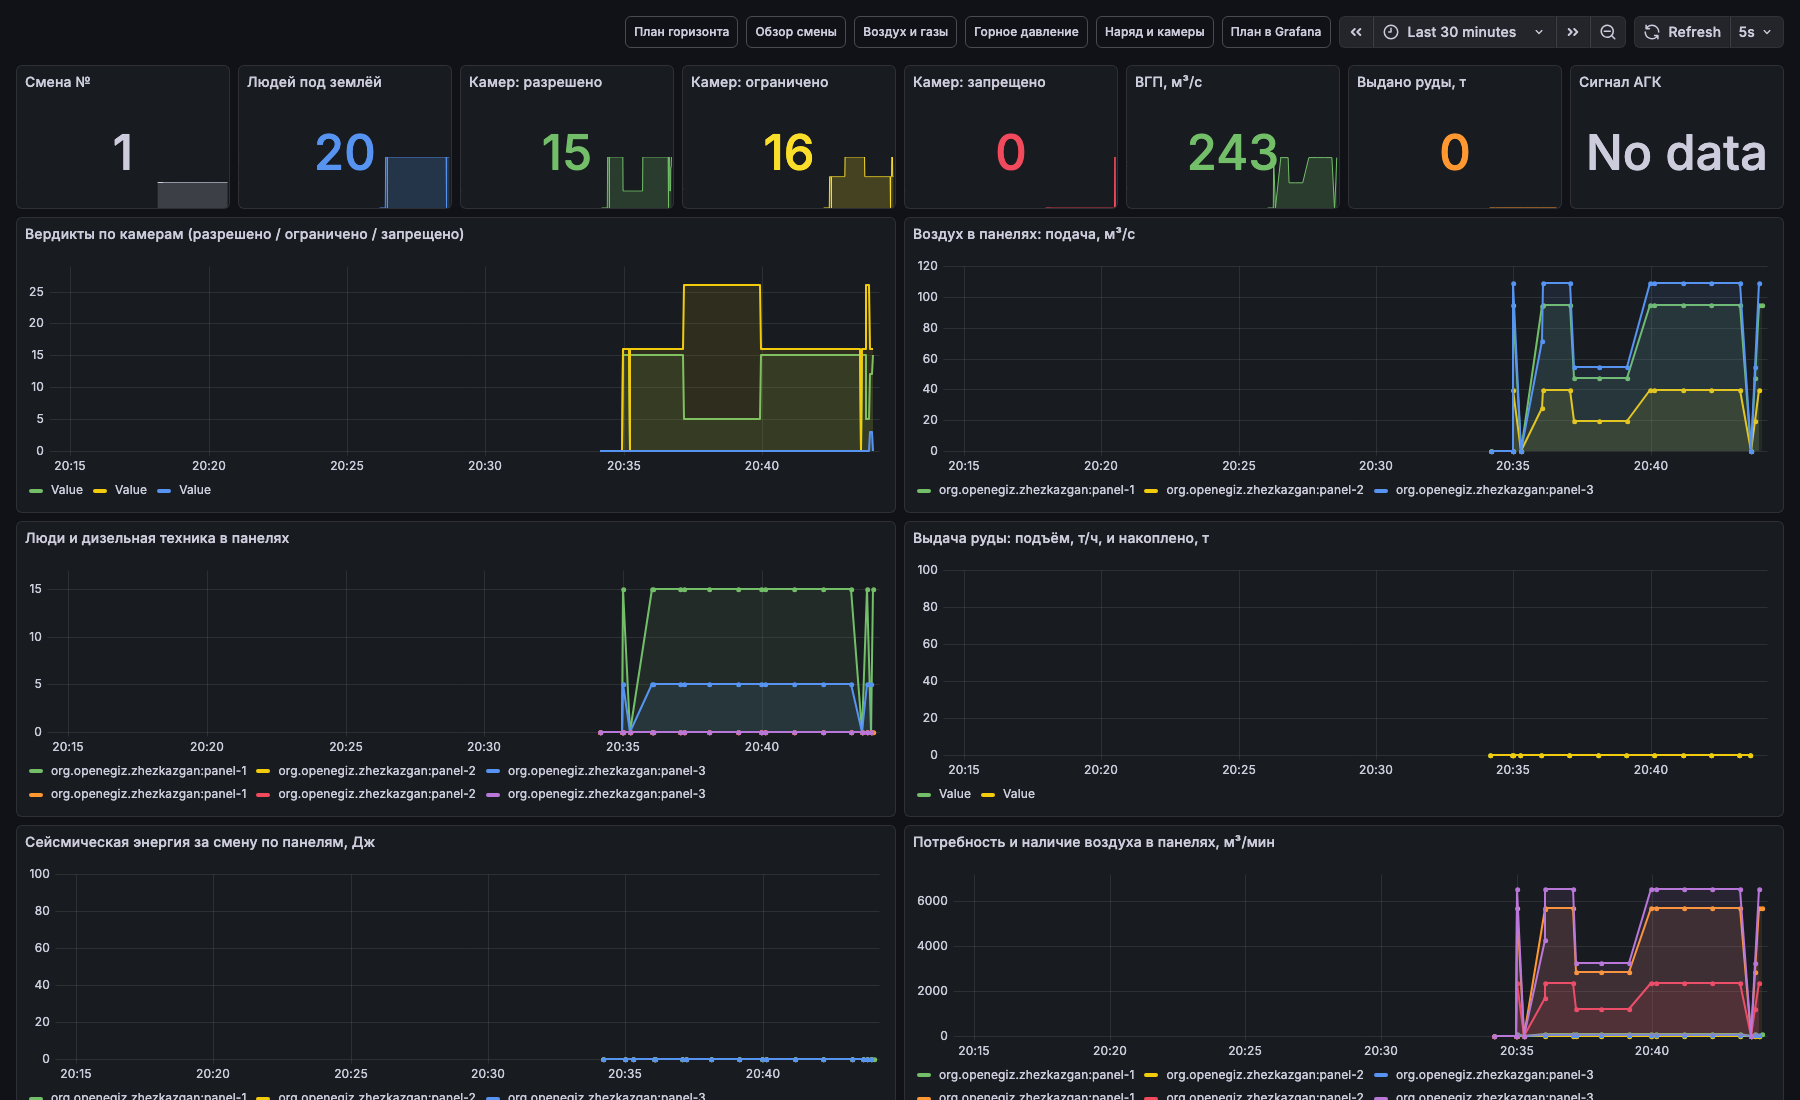
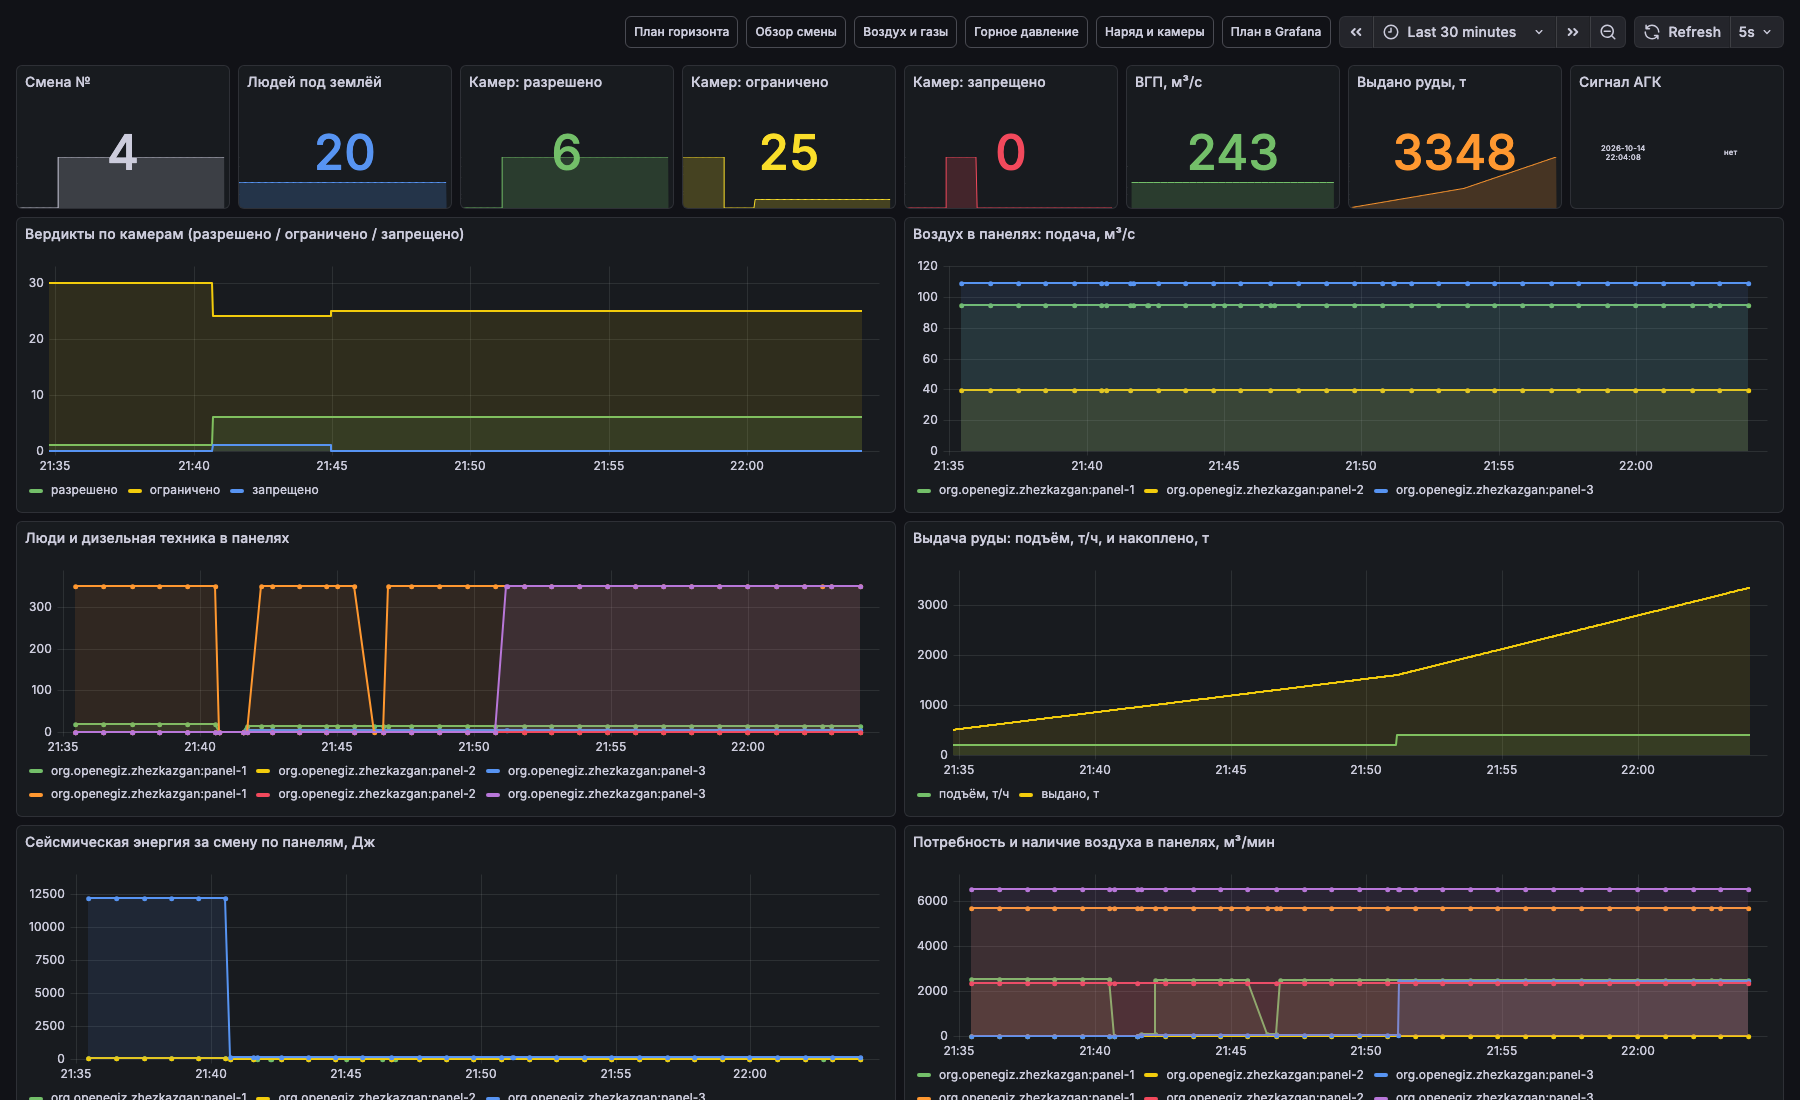
Dashboards: text stats show string values; readable series names

diff --git a/team/grafana/build_dashboards.py b/team/grafana/build_dashboards.py
@@ -27,10 +27,12 @@ def nid():
     return _id[0]
 
 
-def flux_one(thing, feature):
+def flux_one(thing, feature, label=None):
+    """Одна величина одного двойника; label подписывает линию на графике с несколькими запросами."""
+    name = label or f"{thing}.{feature}"
     return (f'from(bucket: "default")\n  |> range(start: v.timeRangeStart, stop: v.timeRangeStop)\n'
             f'  |> filter(fn: (r) => r.thingId == "{NS}:{thing}" and r._field == "value_{feature}_properties_value")\n'
-            f'  |> keep(columns: ["_time", "_value"])')
+            f'  |> map(fn: (r) => ({{_time: r._time, _value: r._value, _field: "{name}"}}))\n  |> group(columns: ["_field"])')
 
 
 def flux_many(regex, feature, label="twin"):
@@ -61,7 +63,7 @@ def target(q, ref="A"):
 def stat(title, q, unit="", x=0, y=0, w=4, h=4, decimals=None, color="blue", thresholds=None, text=False):
     p = {"id": nid(), "type": "stat", "title": title, "datasource": DS, "gridPos": {"x": x, "y": y, "w": w, "h": h},
          "targets": [target(q)],
-         "options": {"reduceOptions": {"calcs": ["lastNotNull"], "fields": "", "values": False}, "colorMode": "none" if text else "value",
+         "options": {"reduceOptions": {"calcs": ["lastNotNull"], "fields": "/.*/" if text else "", "values": False}, "colorMode": "none" if text else "value",
                      "graphMode": "none" if text else "area", "textMode": "value", "justifyMode": "auto"},
          "fieldConfig": {"defaults": {"unit": unit, "color": {"mode": "fixed", "fixedColor": color}}, "overrides": []}}
     if decimals is not None:
@@ -127,10 +129,10 @@ def overview():
              [{"color": "red", "value": None}, {"color": "yellow", "value": 150}, {"color": "green", "value": 220}]),
         stat("Выдано руды, т", flux_one("hoist", "tonnes_total"), "", 18, 0, 3, 4, 0, "orange"),
         stat("Сигнал АГК", flux_one("east-mine", "alarm"), "", 21, 0, 3, 4, None, "red", text=True),
-        ts("Вердикты по камерам (разрешено / ограничено / запрещено)", [flux_one("east-mine", "chambers_allowed"), flux_one("east-mine", "chambers_restricted"), flux_one("east-mine", "chambers_forbidden")], "", 0, 4, 12, 8, min_=0),
+        ts("Вердикты по камерам (разрешено / ограничено / запрещено)", [flux_one("east-mine", "chambers_allowed", "разрешено"), flux_one("east-mine", "chambers_restricted", "ограничено"), flux_one("east-mine", "chambers_forbidden", "запрещено")], "", 0, 4, 12, 8, min_=0),
         ts("Воздух в панелях: подача, м³/с", [flux_many("panel-", "q_in")], "", 12, 4, 12, 8, min_=0),
         ts("Люди и дизельная техника в панелях", [flux_many("panel-", "people"), flux_many("panel-", "diesel_kw")], "", 0, 12, 12, 8, min_=0),
-        ts("Выдача руды: подъём, т/ч, и накоплено, т", [flux_one("hoist", "throughput"), flux_one("hoist", "tonnes_total")], "", 12, 12, 12, 8, min_=0),
+        ts("Выдача руды: подъём, т/ч, и накоплено, т", [flux_one("hoist", "throughput", "подъём, т/ч"), flux_one("hoist", "tonnes_total", "выдано, т")], "", 12, 12, 12, 8, min_=0),
         ts("Сейсмическая энергия за смену по панелям, Дж", [flux_many("panel-", "seismic_energy_shift")], "", 0, 20, 12, 8, min_=0),
         ts("Потребность и наличие воздуха в панелях, м³/мин", [flux_many("panel-", "air_required"), flux_many("panel-", "air_available")], "", 12, 20, 12, 8, min_=0),
         stat("Активные сценарии", flux_one("east-mine", "active_scenarios"), "", 0, 28, 12, 3, None, "yellow", text=True),
